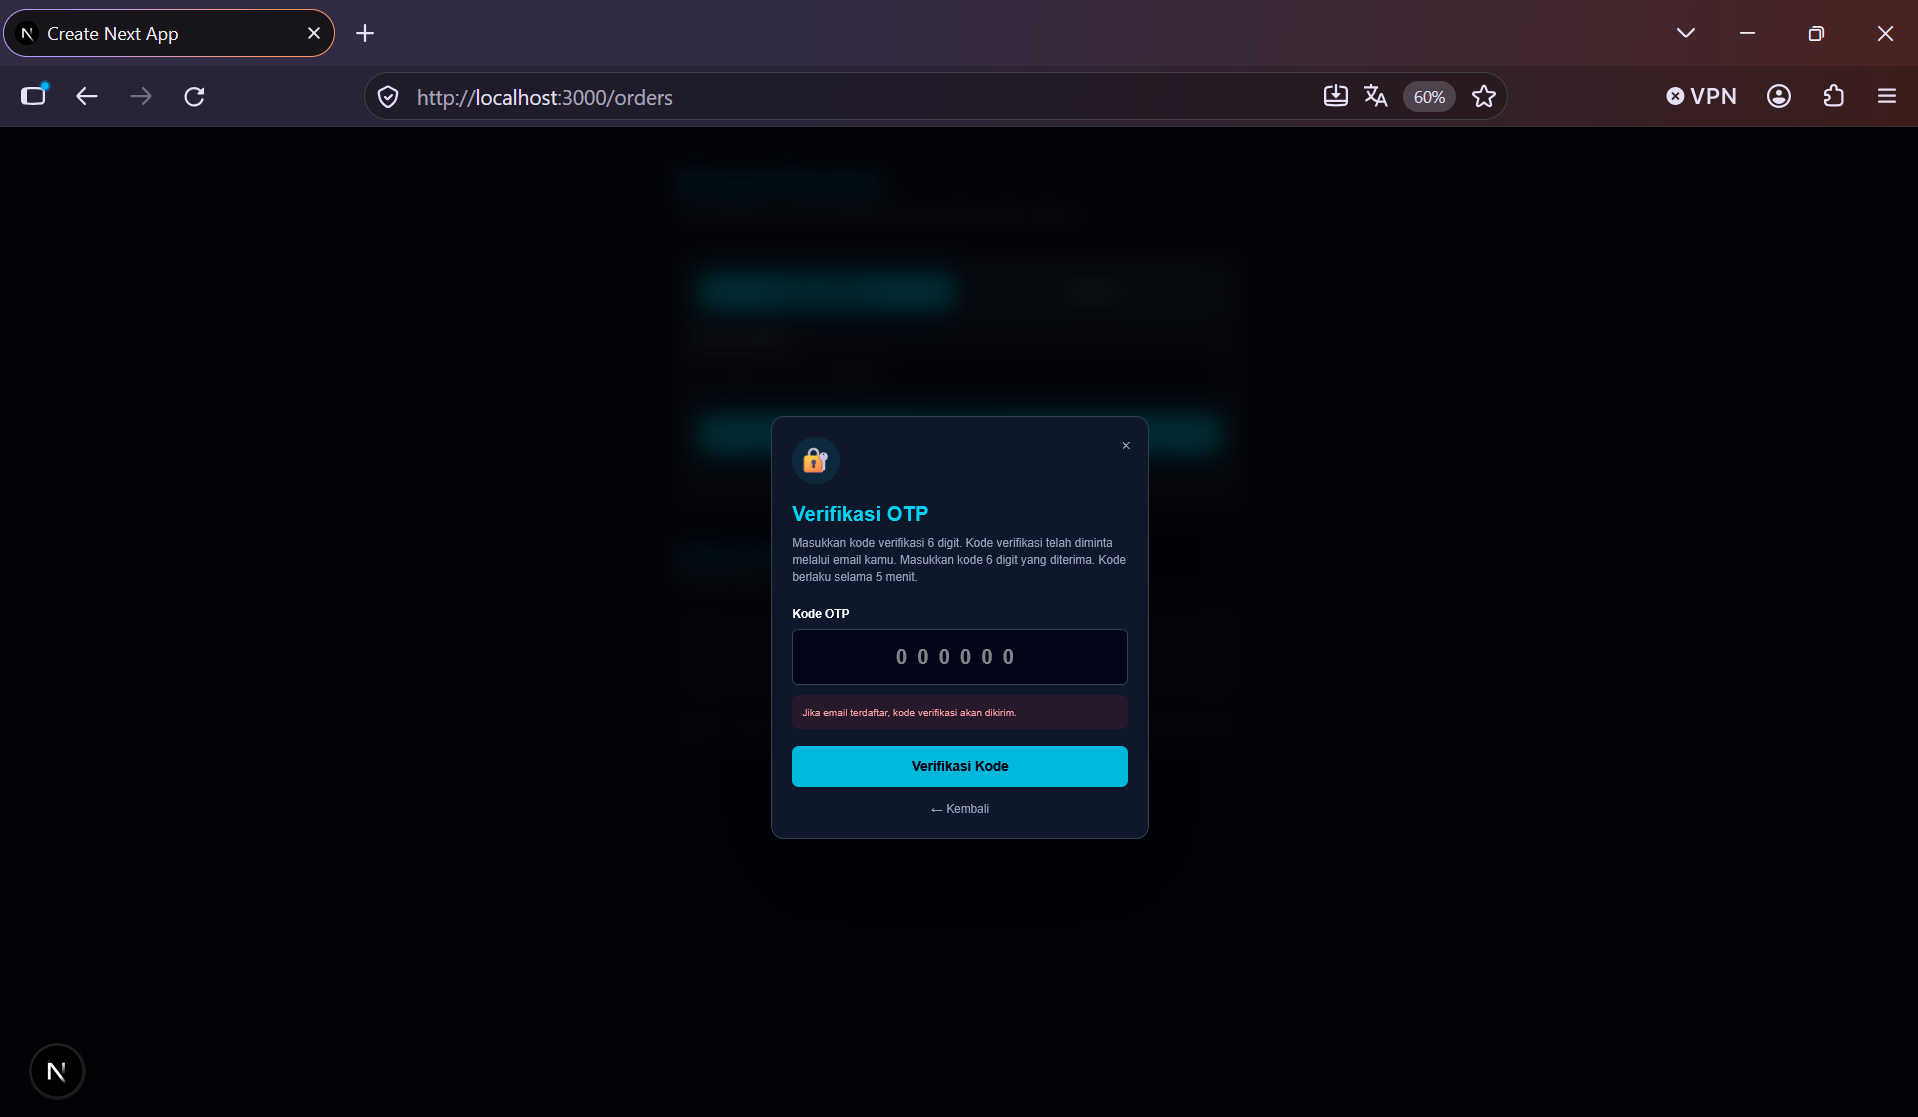
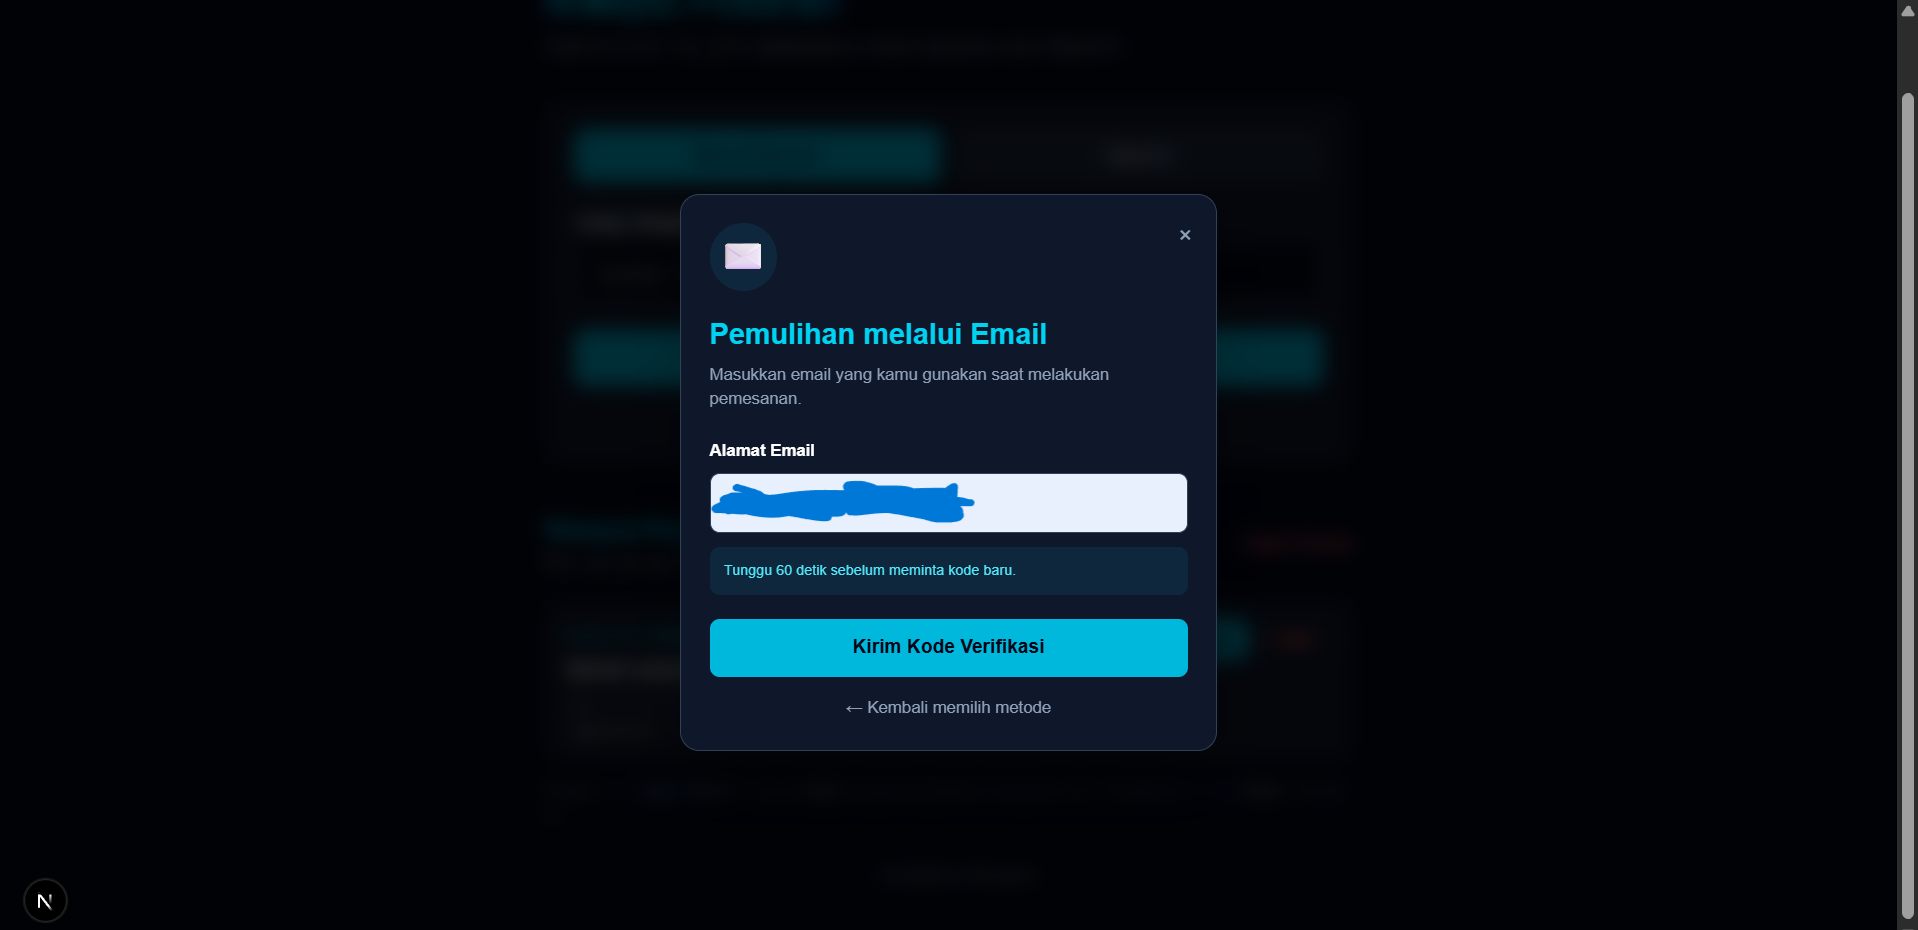
Add real-time OTP expiration countdown

Changed region(s): [[0.0, 0.0, 1.0, 1.0], [0.0, 0.9355, 0.0308, 0.9667]]

diff --git a/app/orders/page.tsx b/app/orders/page.tsx
@@ -61,8 +61,25 @@ export default function OrdersPage() {
   const [recoveryContact, setRecoveryContact] = useState("");
   const [otp, setOtp] = useState("");
   const [recoveryMessage, setRecoveryMessage] = useState("");
+  const [otpExpiresAt, setOtpExpiresAt] = useState<number | null>(null);
+  const [otpRemaining, setOtpRemaining] = useState(0);
   const [recoveryLoading, setRecoveryLoading] = useState(false);
   const [recoveredOrderCodes, setRecoveredOrderCodes] = useState<string[]>([]);
+
+  useEffect(() => {
+  if (recoveryStep !== "otp" || otpExpiresAt === null) return;
+
+  const interval = window.setInterval(() => {
+    const remaining = Math.max(
+      0,
+      Math.ceil((otpExpiresAt - Date.now()) / 1000)
+    );
+
+    setOtpRemaining(remaining);
+  }, 1000);
+
+  return () => window.clearInterval(interval);
+}, [recoveryStep, otpExpiresAt]);
 
   // Membaca riwayat dari Local Storage saat halaman dibuka.
   useEffect(() => {
@@ -285,6 +302,8 @@ export default function OrdersPage() {
     setRecoveryContact(email);
     setRecoveryStep("otp");
     setRecoveryMessage(result.message);
+    setOtpExpiresAt(Date.now() + 5 * 60 * 1000);
+    setOtpRemaining(300);
   } catch (err) {
     setRecoveryMessage(
       err instanceof Error ? err.message : "Terjadi kesalahan."
@@ -815,7 +834,24 @@ async function handleVerifyOTP() {
                   Masukkan kode verifikasi 6 digit.
                   Kode verifikasi telah diminta melalui email kamu. Masukkan kode 6 digit yang diterima. Kode berlaku selama 5 menit.
                 </p>
+                                <div className="mb-5 rounded-xl border border-cyan-500/20 bg-cyan-500/5 p-4 text-center">
+                  <p className="mb-1 text-xs text-slate-400">
+                    Sisa waktu kode OTP
+                  </p>
 
+                  <p className={`text-3xl font-bold tabular-nums ${
+                    otpRemaining <= 60 ? "text-red-400" : "text-cyan-400"
+                  }`}>
+                    {String(Math.floor(otpRemaining / 60)).padStart(2, "0")}:
+                    {String(otpRemaining % 60).padStart(2, "0")}
+                  </p>
+
+                  <p className="mt-1 text-xs text-slate-500">
+                    {otpRemaining > 0
+                      ? "Kode OTP akan kedaluwarsa setelah waktu habis."
+                      : "Kode OTP telah kedaluwarsa. Silakan minta kode baru."}
+                  </p>
+                </div>
                 <label className="mb-2 block text-sm font-semibold">
                   Kode OTP
                 </label>
